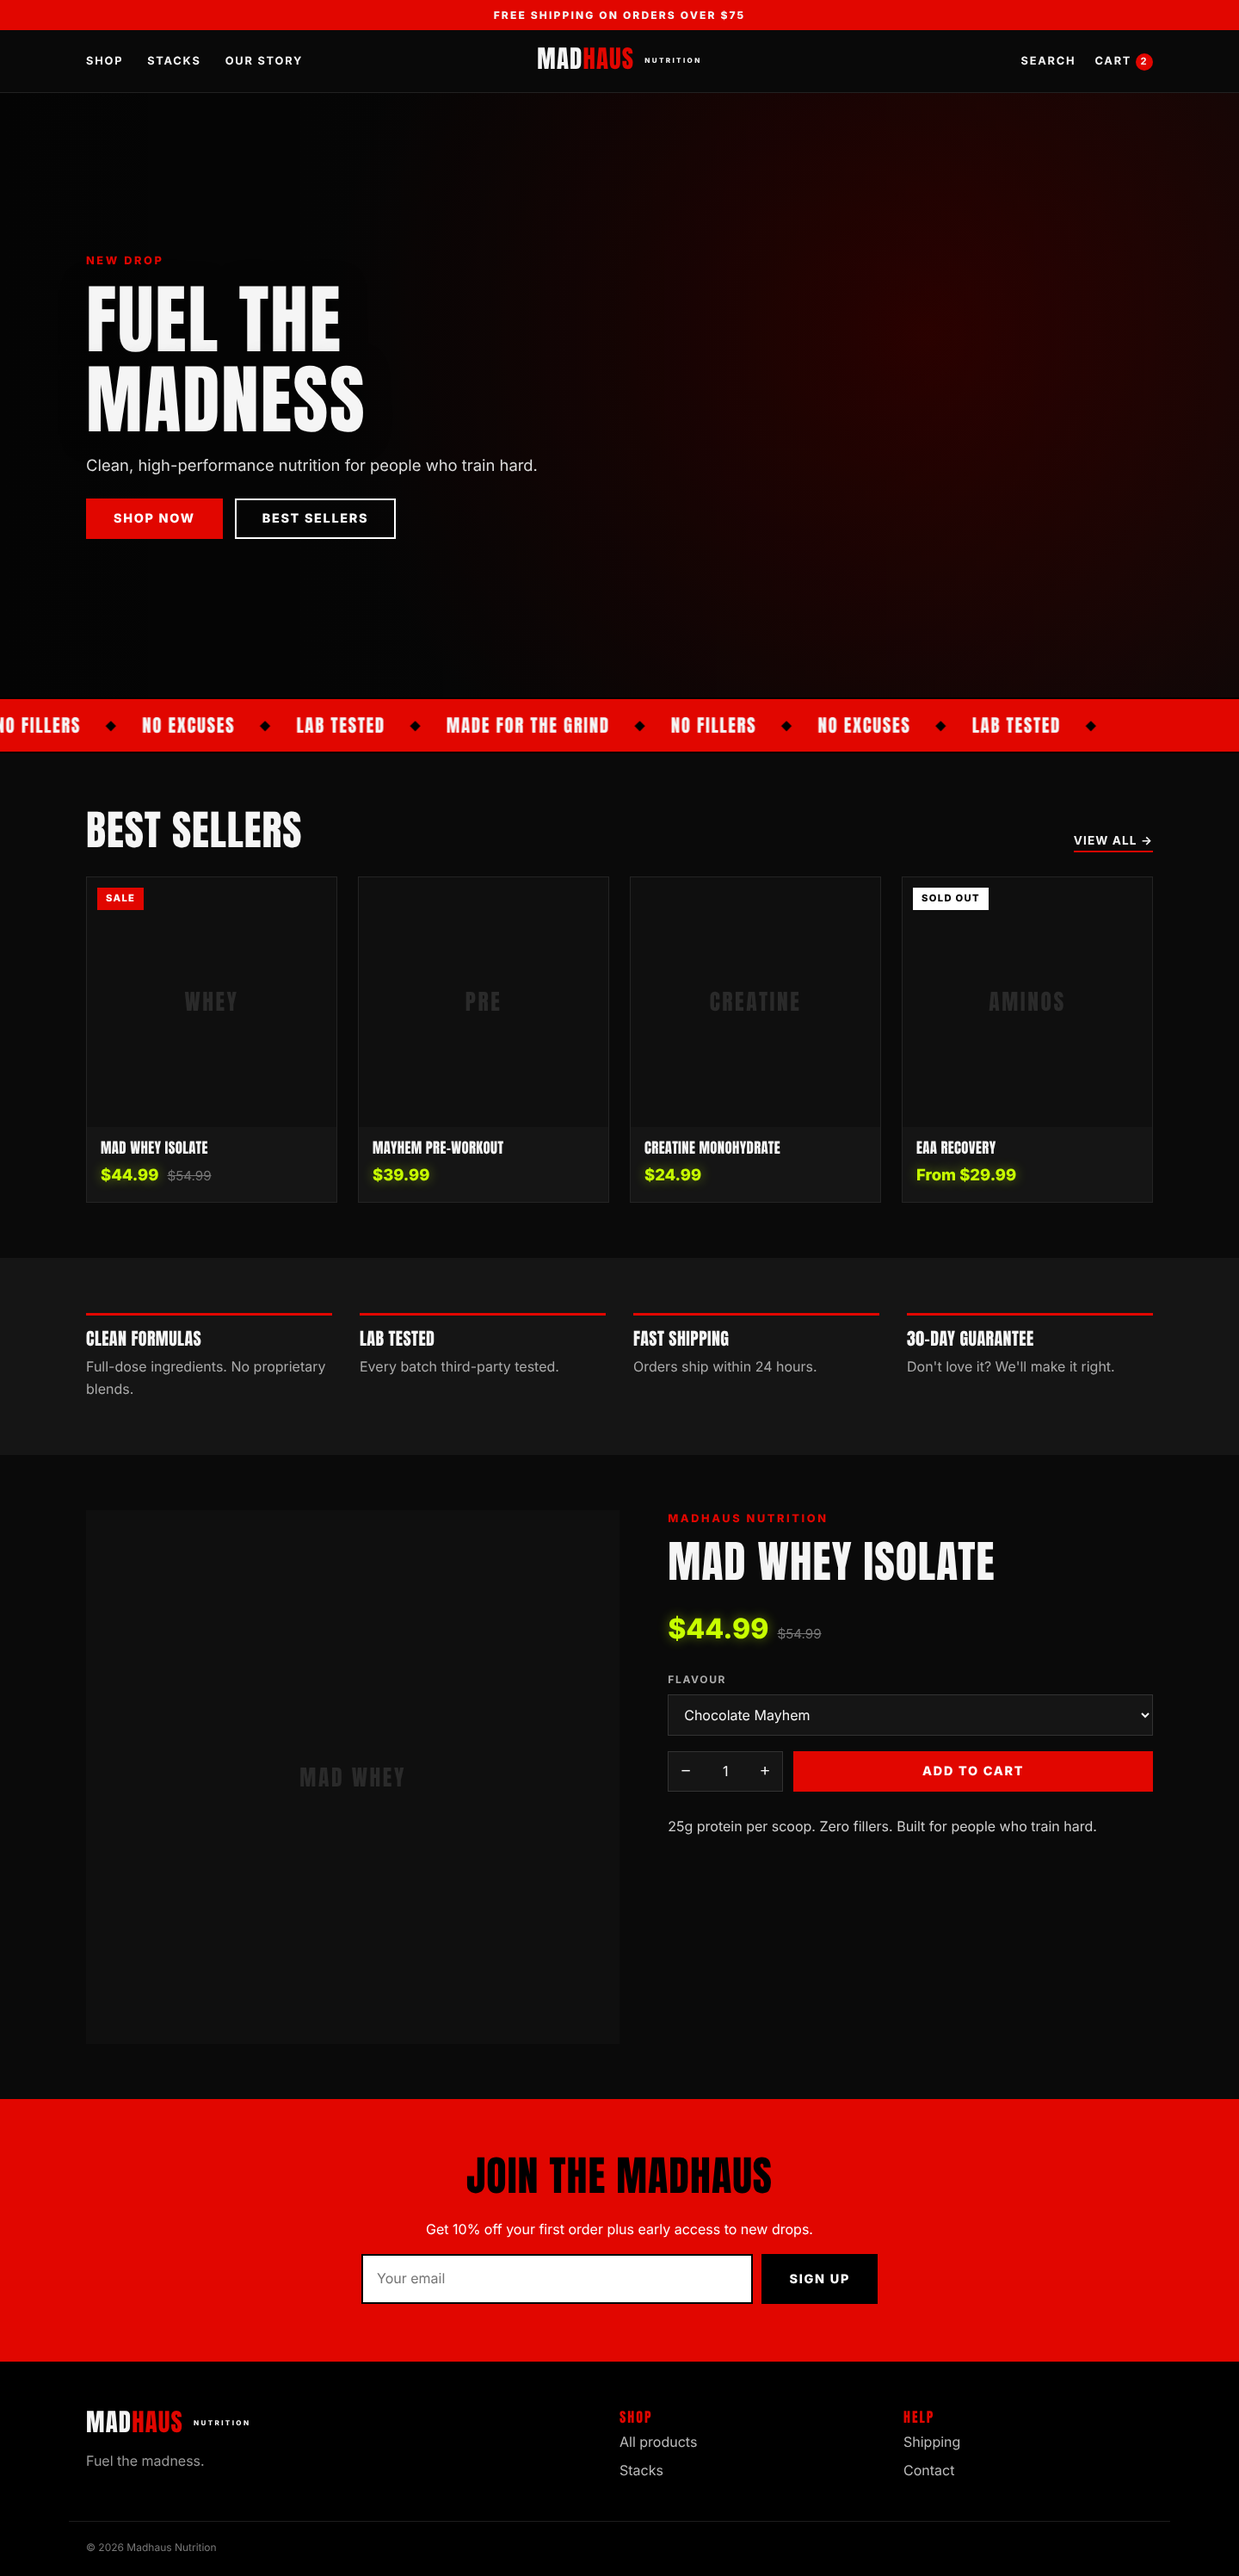
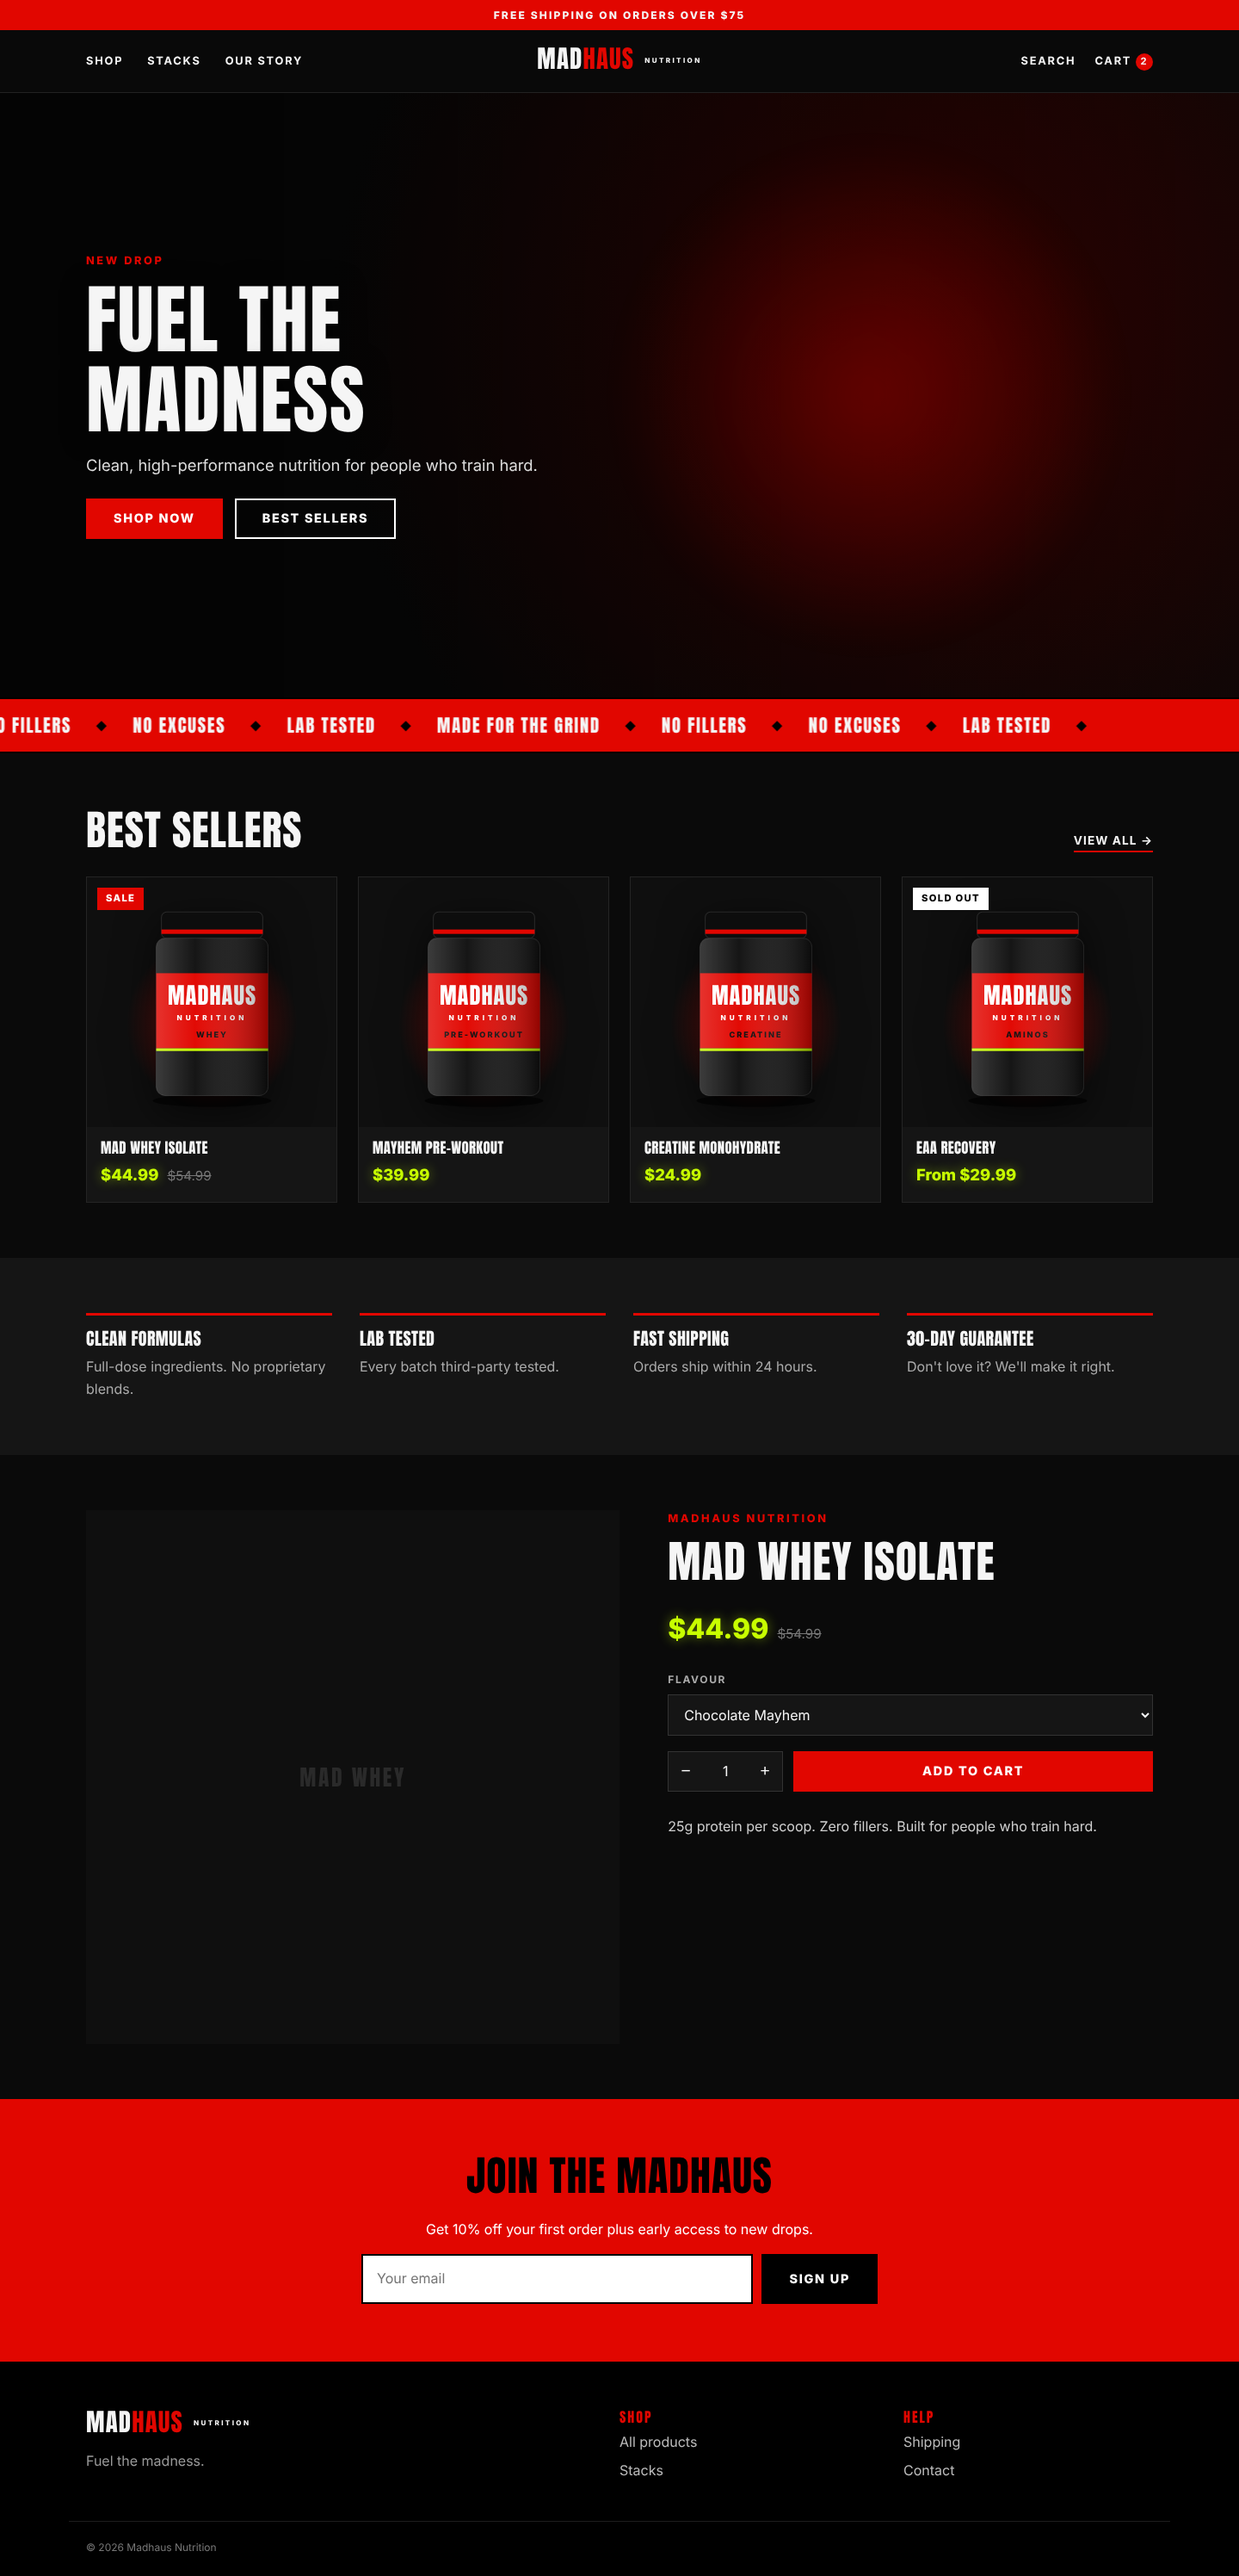
Add hero video support, branded product placeholder, hero glow, AI visuals prompt pack
Claude-Session: https://claude.ai/code/session_017S7EnvQf6wwTbxonTGcEjS

diff --git a/madhaus-nutrition/preview/index.html b/madhaus-nutrition/preview/index.html
@@ -277,23 +277,126 @@ input:focus, textarea:focus, select:focus { border-color: var(--color-accent); o
   .field-row { grid-template-columns: 1fr; }
   .perks { grid-template-columns: 1fr; }
 }
+
+/* Brand placeholder tub + hero glow */
+.card__placeholder .tub { width: 70%; max-width: 280px; height: auto; filter: drop-shadow(0 12px 24px rgba(0,0,0,.6)); transition: transform .3s; }
+.card:hover .tub { transform: translateY(-6px) scale(1.04); }
+.hero__glow { position: absolute; width: 70vmin; height: 70vmin; right: 8%; top: 50%; translate: 0 -50%; border-radius: 50%; background: radial-gradient(circle, rgba(225,6,0,.55), rgba(225,6,0,0) 65%); filter: blur(20px); animation: glow 6s ease-in-out infinite alternate; }
+@keyframes glow { to { transform: scale(1.15); opacity: .7; } }
+@media (prefers-reduced-motion: reduce) { .hero__glow { animation: none; } }
 </style></head><body><div class="announcement">FREE SHIPPING ON ORDERS OVER $75</div>
 <header class="header"><div class="container header__inner">
 <nav class="header__nav"><a href="#">Shop</a><a href="#">Stacks</a><a href="#">Our Story</a></nav>
 <a class="header__logo" href="#"><span class="logo-text">MAD<span>HAUS</span> <small>NUTRITION</small></span></a>
 <div class="header__icons"><a href="#">Search</a><a href="#" class="header__cart">Cart <span class="cart-count">2</span></a></div></div></header>
 <main>
-<section class="hero" style="--overlay:.6"><div class="container hero__content">
+<section class="hero" style="--overlay:.6"><div class="hero__glow"></div><div class="container hero__content">
 <p class="eyebrow">NEW DROP</p><h1>FUEL THE MADNESS</h1>
 <p class="hero__sub">Clean, high-performance nutrition for people who train hard.</p>
 <div class="hero__buttons"><a class="btn" href="#">Shop now</a><a class="btn btn--ghost" href="#">Best sellers</a></div></div></section>
 <div class="marquee"><div class="marquee__track"><div class="marquee__group"><span>NO FILLERS</span><i>◆</i><span>NO EXCUSES</span><i>◆</i><span>LAB TESTED</span><i>◆</i><span>MADE FOR THE GRIND</span><i>◆</i><span>NO FILLERS</span><i>◆</i><span>NO EXCUSES</span><i>◆</i><span>LAB TESTED</span><i>◆</i></div></div></div>
 <section class="section"><div class="container"><div class="section__head"><h2>BEST SELLERS</h2><a class="link-arrow" href="#">View all →</a></div>
 <div class="grid">
-<article class="card"><a class="card__media"><div class="card__placeholder">WHEY</div><span class="badge">SALE</span></a><div class="card__body"><h3 class="card__title">Mad Whey Isolate</h3><div class="price"><span class="price__current">$44.99</span><s class="price__compare">$54.99</s></div></div></article>
-<article class="card"><a class="card__media"><div class="card__placeholder">PRE</div></a><div class="card__body"><h3 class="card__title">Mayhem Pre-Workout</h3><div class="price"><span class="price__current">$39.99</span></div></div></article>
-<article class="card"><a class="card__media"><div class="card__placeholder">CREATINE</div></a><div class="card__body"><h3 class="card__title">Creatine Monohydrate</h3><div class="price"><span class="price__current">$24.99</span></div></div></article>
-<article class="card"><a class="card__media"><div class="card__placeholder">AMINOS</div><span class="badge badge--out">SOLD OUT</span></a><div class="card__body"><h3 class="card__title">EAA Recovery</h3><div class="price"><span class="price__current">From $29.99</span></div></div></article>
+<article class="card"><a class="card__media"><div class="card__placeholder"><svg class="tub" viewBox="0 0 200 250" role="img" aria-label="Madhaus Nutrition product" xmlns="http://www.w3.org/2000/svg">
+  <defs>
+    <linearGradient id="tub-shine" x1="0" x2="1">
+      <stop offset="0" stop-color="#fff" stop-opacity=".18"/>
+      <stop offset=".35" stop-color="#fff" stop-opacity=".02"/>
+      <stop offset="1" stop-color="#000" stop-opacity=".35"/>
+    </linearGradient>
+    <radialGradient id="tub-glow" cx=".5" cy=".5" r=".5">
+      <stop offset="0" stop-color="#e10600" stop-opacity=".45"/>
+      <stop offset="1" stop-color="#e10600" stop-opacity="0"/>
+    </radialGradient>
+  </defs>
+  <ellipse cx="100" cy="150" rx="98" ry="98" fill="url(#tub-glow)"/>
+  <ellipse cx="100" cy="238" rx="68" ry="7" fill="#000" opacity=".6"/>
+  <rect x="42" y="22" width="116" height="30" rx="6" fill="#0d0d0d" stroke="#2a2a2a"/>
+  <rect x="42" y="42" width="116" height="5" fill="#e10600"/>
+  <rect x="36" y="52" width="128" height="180" rx="10" fill="#111" stroke="#2a2a2a"/>
+  <rect x="36" y="92" width="128" height="86" fill="#e10600"/>
+  <text x="100" y="128" text-anchor="middle" font-family="Anton, Impact, sans-serif" font-size="26" fill="#fff" letter-spacing="1">MADHAUS</text>
+  <text x="100" y="146" text-anchor="middle" font-family="Inter, sans-serif" font-weight="800" font-size="8" fill="#fff" letter-spacing="4">NUTRITION</text>
+  <text x="100" y="166" text-anchor="middle" font-family="Inter, sans-serif" font-weight="800" font-size="9" fill="#0a0a0a" letter-spacing="2">WHEY</text>
+  <rect x="36" y="178" width="128" height="3" fill="#c8ff00"/>
+  <rect x="36" y="52" width="128" height="180" rx="10" fill="url(#tub-shine)"/>
+</svg>
+</div><span class="badge">SALE</span></a><div class="card__body"><h3 class="card__title">Mad Whey Isolate</h3><div class="price"><span class="price__current">$44.99</span><s class="price__compare">$54.99</s></div></div></article>
+<article class="card"><a class="card__media"><div class="card__placeholder"><svg class="tub" viewBox="0 0 200 250" role="img" aria-label="Madhaus Nutrition product" xmlns="http://www.w3.org/2000/svg">
+  <defs>
+    <linearGradient id="tub-shine" x1="0" x2="1">
+      <stop offset="0" stop-color="#fff" stop-opacity=".18"/>
+      <stop offset=".35" stop-color="#fff" stop-opacity=".02"/>
+      <stop offset="1" stop-color="#000" stop-opacity=".35"/>
+    </linearGradient>
+    <radialGradient id="tub-glow" cx=".5" cy=".5" r=".5">
+      <stop offset="0" stop-color="#e10600" stop-opacity=".45"/>
+      <stop offset="1" stop-color="#e10600" stop-opacity="0"/>
+    </radialGradient>
+  </defs>
+  <ellipse cx="100" cy="150" rx="98" ry="98" fill="url(#tub-glow)"/>
+  <ellipse cx="100" cy="238" rx="68" ry="7" fill="#000" opacity=".6"/>
+  <rect x="42" y="22" width="116" height="30" rx="6" fill="#0d0d0d" stroke="#2a2a2a"/>
+  <rect x="42" y="42" width="116" height="5" fill="#e10600"/>
+  <rect x="36" y="52" width="128" height="180" rx="10" fill="#111" stroke="#2a2a2a"/>
+  <rect x="36" y="92" width="128" height="86" fill="#e10600"/>
+  <text x="100" y="128" text-anchor="middle" font-family="Anton, Impact, sans-serif" font-size="26" fill="#fff" letter-spacing="1">MADHAUS</text>
+  <text x="100" y="146" text-anchor="middle" font-family="Inter, sans-serif" font-weight="800" font-size="8" fill="#fff" letter-spacing="4">NUTRITION</text>
+  <text x="100" y="166" text-anchor="middle" font-family="Inter, sans-serif" font-weight="800" font-size="9" fill="#0a0a0a" letter-spacing="2">PRE-WORKOUT</text>
+  <rect x="36" y="178" width="128" height="3" fill="#c8ff00"/>
+  <rect x="36" y="52" width="128" height="180" rx="10" fill="url(#tub-shine)"/>
+</svg>
+</div></a><div class="card__body"><h3 class="card__title">Mayhem Pre-Workout</h3><div class="price"><span class="price__current">$39.99</span></div></div></article>
+<article class="card"><a class="card__media"><div class="card__placeholder"><svg class="tub" viewBox="0 0 200 250" role="img" aria-label="Madhaus Nutrition product" xmlns="http://www.w3.org/2000/svg">
+  <defs>
+    <linearGradient id="tub-shine" x1="0" x2="1">
+      <stop offset="0" stop-color="#fff" stop-opacity=".18"/>
+      <stop offset=".35" stop-color="#fff" stop-opacity=".02"/>
+      <stop offset="1" stop-color="#000" stop-opacity=".35"/>
+    </linearGradient>
+    <radialGradient id="tub-glow" cx=".5" cy=".5" r=".5">
+      <stop offset="0" stop-color="#e10600" stop-opacity=".45"/>
+      <stop offset="1" stop-color="#e10600" stop-opacity="0"/>
+    </radialGradient>
+  </defs>
+  <ellipse cx="100" cy="150" rx="98" ry="98" fill="url(#tub-glow)"/>
+  <ellipse cx="100" cy="238" rx="68" ry="7" fill="#000" opacity=".6"/>
+  <rect x="42" y="22" width="116" height="30" rx="6" fill="#0d0d0d" stroke="#2a2a2a"/>
+  <rect x="42" y="42" width="116" height="5" fill="#e10600"/>
+  <rect x="36" y="52" width="128" height="180" rx="10" fill="#111" stroke="#2a2a2a"/>
+  <rect x="36" y="92" width="128" height="86" fill="#e10600"/>
+  <text x="100" y="128" text-anchor="middle" font-family="Anton, Impact, sans-serif" font-size="26" fill="#fff" letter-spacing="1">MADHAUS</text>
+  <text x="100" y="146" text-anchor="middle" font-family="Inter, sans-serif" font-weight="800" font-size="8" fill="#fff" letter-spacing="4">NUTRITION</text>
+  <text x="100" y="166" text-anchor="middle" font-family="Inter, sans-serif" font-weight="800" font-size="9" fill="#0a0a0a" letter-spacing="2">CREATINE</text>
+  <rect x="36" y="178" width="128" height="3" fill="#c8ff00"/>
+  <rect x="36" y="52" width="128" height="180" rx="10" fill="url(#tub-shine)"/>
+</svg>
+</div></a><div class="card__body"><h3 class="card__title">Creatine Monohydrate</h3><div class="price"><span class="price__current">$24.99</span></div></div></article>
+<article class="card"><a class="card__media"><div class="card__placeholder"><svg class="tub" viewBox="0 0 200 250" role="img" aria-label="Madhaus Nutrition product" xmlns="http://www.w3.org/2000/svg">
+  <defs>
+    <linearGradient id="tub-shine" x1="0" x2="1">
+      <stop offset="0" stop-color="#fff" stop-opacity=".18"/>
+      <stop offset=".35" stop-color="#fff" stop-opacity=".02"/>
+      <stop offset="1" stop-color="#000" stop-opacity=".35"/>
+    </linearGradient>
+    <radialGradient id="tub-glow" cx=".5" cy=".5" r=".5">
+      <stop offset="0" stop-color="#e10600" stop-opacity=".45"/>
+      <stop offset="1" stop-color="#e10600" stop-opacity="0"/>
+    </radialGradient>
+  </defs>
+  <ellipse cx="100" cy="150" rx="98" ry="98" fill="url(#tub-glow)"/>
+  <ellipse cx="100" cy="238" rx="68" ry="7" fill="#000" opacity=".6"/>
+  <rect x="42" y="22" width="116" height="30" rx="6" fill="#0d0d0d" stroke="#2a2a2a"/>
+  <rect x="42" y="42" width="116" height="5" fill="#e10600"/>
+  <rect x="36" y="52" width="128" height="180" rx="10" fill="#111" stroke="#2a2a2a"/>
+  <rect x="36" y="92" width="128" height="86" fill="#e10600"/>
+  <text x="100" y="128" text-anchor="middle" font-family="Anton, Impact, sans-serif" font-size="26" fill="#fff" letter-spacing="1">MADHAUS</text>
+  <text x="100" y="146" text-anchor="middle" font-family="Inter, sans-serif" font-weight="800" font-size="8" fill="#fff" letter-spacing="4">NUTRITION</text>
+  <text x="100" y="166" text-anchor="middle" font-family="Inter, sans-serif" font-weight="800" font-size="9" fill="#0a0a0a" letter-spacing="2">AMINOS</text>
+  <rect x="36" y="178" width="128" height="3" fill="#c8ff00"/>
+  <rect x="36" y="52" width="128" height="180" rx="10" fill="url(#tub-shine)"/>
+</svg>
+</div><span class="badge badge--out">SOLD OUT</span></a><div class="card__body"><h3 class="card__title">EAA Recovery</h3><div class="price"><span class="price__current">From $29.99</span></div></div></article>
 </div></div></section>
 <section class="section section--surface"><div class="container benefits">
 <div class="benefit"><h3>CLEAN FORMULAS</h3><p>Full-dose ingredients. No proprietary blends.</p></div>

diff --git a/madhaus-nutrition/assets/base.css b/madhaus-nutrition/assets/base.css
@@ -277,3 +277,10 @@ input:focus, textarea:focus, select:focus { border-color: var(--color-accent); o
   .field-row { grid-template-columns: 1fr; }
   .perks { grid-template-columns: 1fr; }
 }
+
+/* Brand placeholder tub + hero glow */
+.card__placeholder .tub { width: 70%; max-width: 280px; height: auto; filter: drop-shadow(0 12px 24px rgba(0,0,0,.6)); transition: transform .3s; }
+.card:hover .tub { transform: translateY(-6px) scale(1.04); }
+.hero__glow { position: absolute; width: 70vmin; height: 70vmin; right: 8%; top: 50%; translate: 0 -50%; border-radius: 50%; background: radial-gradient(circle, rgba(225,6,0,.55), rgba(225,6,0,0) 65%); filter: blur(20px); animation: glow 6s ease-in-out infinite alternate; }
+@keyframes glow { to { transform: scale(1.15); opacity: .7; } }
+@media (prefers-reduced-motion: reduce) { .hero__glow { animation: none; } }

diff --git a/madhaus-nutrition/AI-VISUALS.md b/madhaus-nutrition/AI-VISUALS.md
@@ -1,0 +1,31 @@
+# AI visuals for Madhaus Nutrition
+
+Copy-paste prompts for Higgsfield, or any free generator (Ideogram, Leonardo, Bing Image Creator,
+Kling, Luma, Hailuo...). Free tiers are credit-limited, so check each tool's current limits.
+
+**Brand look (paste at the end of every prompt):**
+`dark black studio background, deep red rim lighting, subtle neon lime-yellow (#c8ff00) accent glow, high contrast, cinematic, gritty gym aesthetic, premium sports nutrition brand, no text, no logos`
+
+## The one rule for supplements
+
+AI scrambles label text. **Never let AI draw your real label.** Photograph your actual tub/bag (phone + window light is fine),
+cut out the background, and use AI for *backgrounds, lifestyle and video* around it. Do not use AI to imply results,
+doctor endorsements or fake customers.
+
+## What to make and where it goes
+
+| Asset | Size | Prompt | Where in Shopify theme editor |
+|---|---|---|---|
+| Hero video (loop) | 1920x1080 MP4, 6-12s, <20MB | "Slow-motion athlete in dark gym chasing a heavy lift, chalk dust floating in red light, camera slowly pushing in, empty space on the left side for text" + brand look | Home → Hero → Background video |
+| Hero image (fallback) | 2400x1350 JPG | "Wide cinematic dark gym, barbell in foreground, red backlight, lots of negative space on left" + brand look | Home → Hero → Background image |
+| Product backdrop | 1600x1600 JPG | "Empty black pedestal, red neon rim light, floating powder particles, product-shot style, centre empty" + brand look. Place your real product photo on top. | Product images |
+| Shop-by-goal tiles (x4) | 1200x1600 JPG, portrait | Build muscle: "close-up of a back and shoulders, sweat, red light". Energy: "runner silhouette, neon lime streak, dark". Recovery: "athlete resting with towel, calm red glow". Stacks: "several dark supplement tubs on a black surface, red glow" + brand look | Home → Shop by goal → each tile |
+| Brand story | 1600x2000 JPG | "Athlete tying wrist wraps in a dim garage gym, red light from the side" + brand look | Home → Image with text |
+| Product ad clips | 1080x1920 MP4 | Animate your real product photo: "slow camera orbit, powder explosion behind, red light pulses" | TikTok / Reels (and Shopify Files) |
+
+## Tips
+
+- Generate 4-8 variations per prompt and pick the best. Keep the same brand-look line so everything matches.
+- Keep the left or centre of hero images empty, because the headline sits there.
+- Compress before upload: images to JPG (about 200-400 KB), video to H.264 MP4 (TinyPNG / HandBrake are free).
+- Higgsfield / Kling image-to-video works well: feed a still, ask for "slow push-in, particles drifting".
